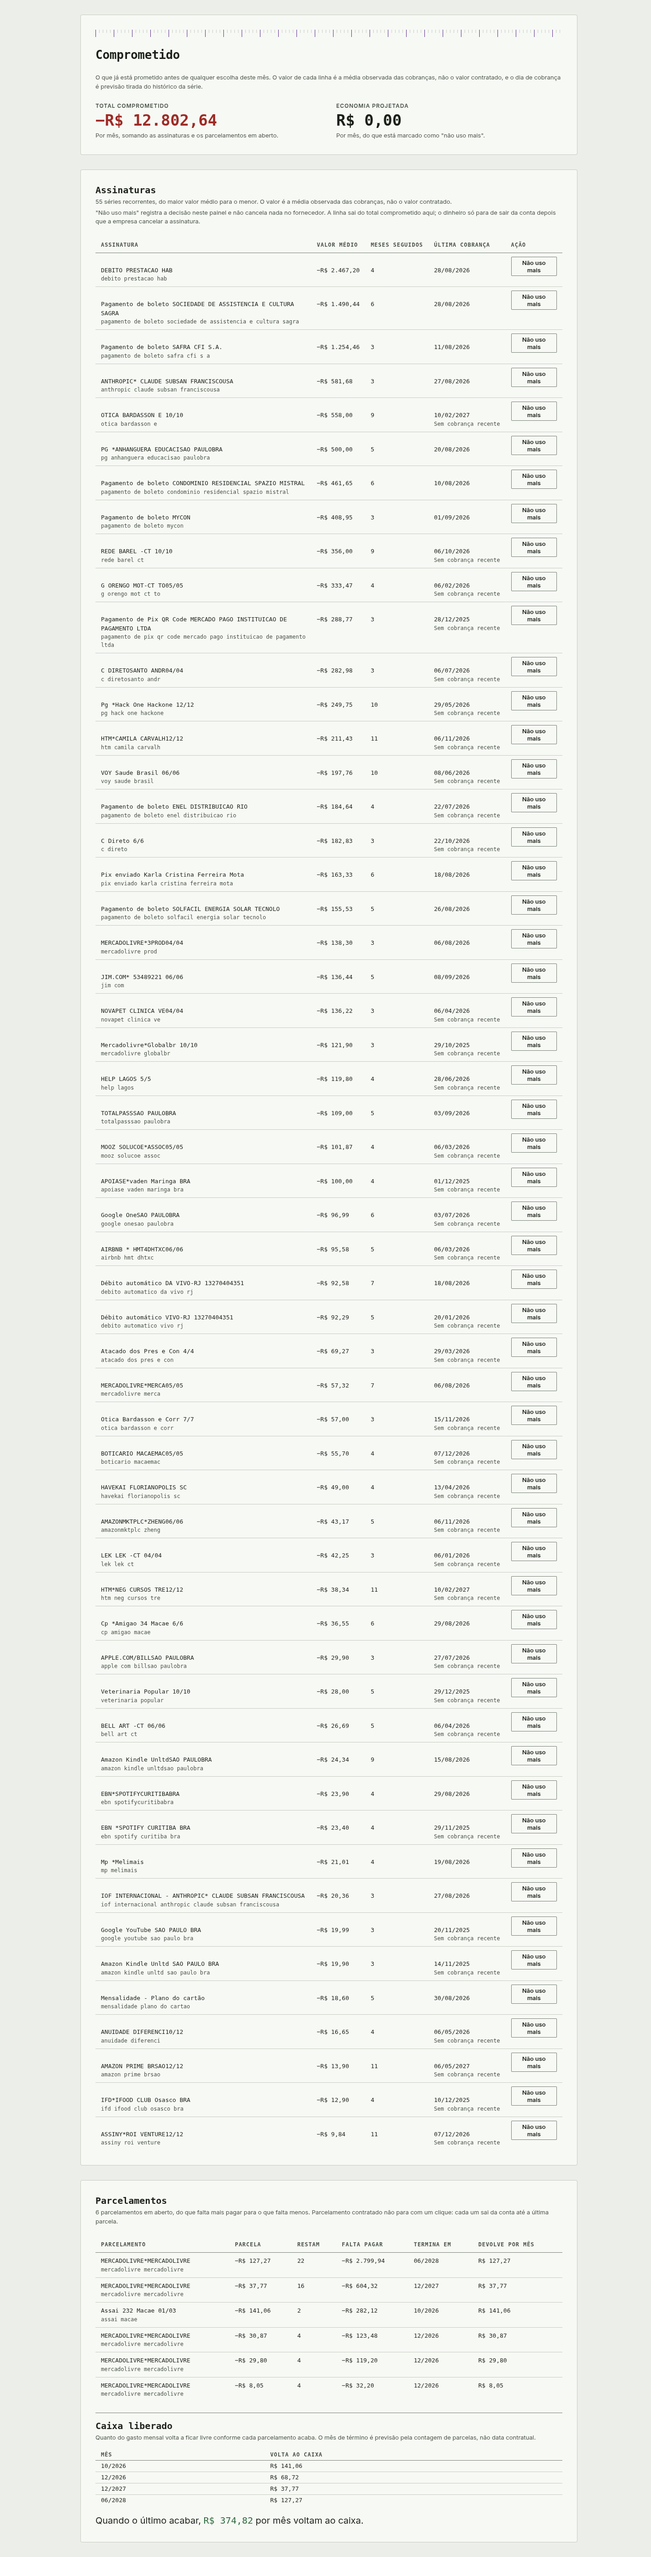
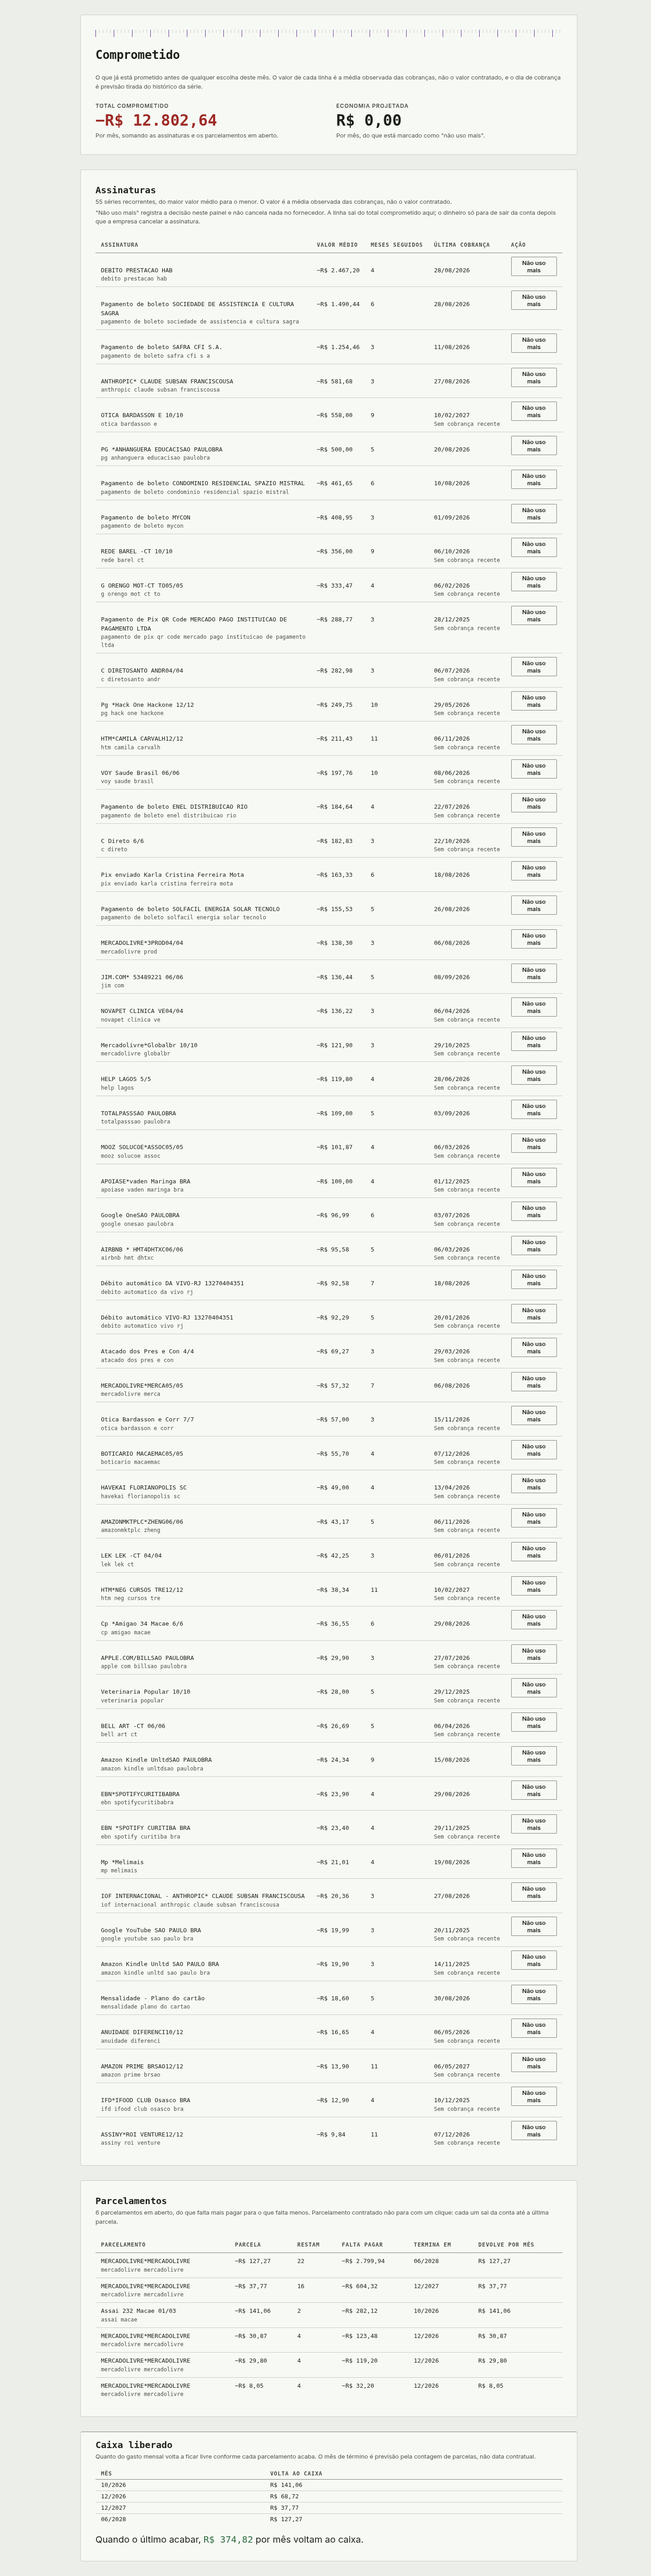
fix(003): the released-cash table stops colliding with the instalment list
Both tables lived under #parcelamentos, so the section selector returned ten
rows where six were instalments. The suite missed it because its helper read
only the first tbody of a section; it now reads every one.

diff --git a/app/templates/fragments/comprometido_parcelamentos.html b/app/templates/fragments/comprometido_parcelamentos.html
@@ -36,7 +36,8 @@
       </tbody>
     </table>
   </div>
-  <div id="caixa-liberado" class="released">
+</section>
+<section id="caixa-liberado" class="panel panel-wide released">
     <div class="stack-tight">
       <h3 class="section-title">Caixa liberado</h3>
       <p class="lede">Quanto do gasto mensal volta a ficar livre conforme cada parcelamento acaba.
@@ -63,7 +64,8 @@
     </div>
     <p class="headline-small">Quando o último acabar,
       <span class="cifra positive">{{ released_cents|brl }}</span> por mês voltam ao caixa.</p>
-  </div>
+</section>
+  {# a section de parcelamentos ja fechou acima #}
   {% else %}
   <div class="empty">
     <p class="empty-title">Nenhum parcelamento em aberto.</p>

diff --git a/tests/test_comprometido_screen.py b/tests/test_comprometido_screen.py
@@ -64,8 +64,11 @@ def _section(html: str, name: str) -> str:
 
 
 def _rows(html: str, name: str) -> list[str]:
-    body = re.search(r"<tbody>(.*?)</tbody>", _section(html, name), re.S)
-    return [] if body is None else re.findall(r"<tr[^>]*>.*?</tr>", body.group(1), re.S)
+    # Every tbody of the section, not the first: a screen that grows a second
+    # table inside the same section would keep passing a check that only ever
+    # looked at one of them.
+    bodies = re.findall(r"<tbody>(.*?)</tbody>", _section(html, name), re.S)
+    return [row for body in bodies for row in re.findall(r"<tr[^>]*>.*?</tr>", body, re.S)]
 
 
 def _ordering(html: str, name: str, attribute: str) -> list[int]:
